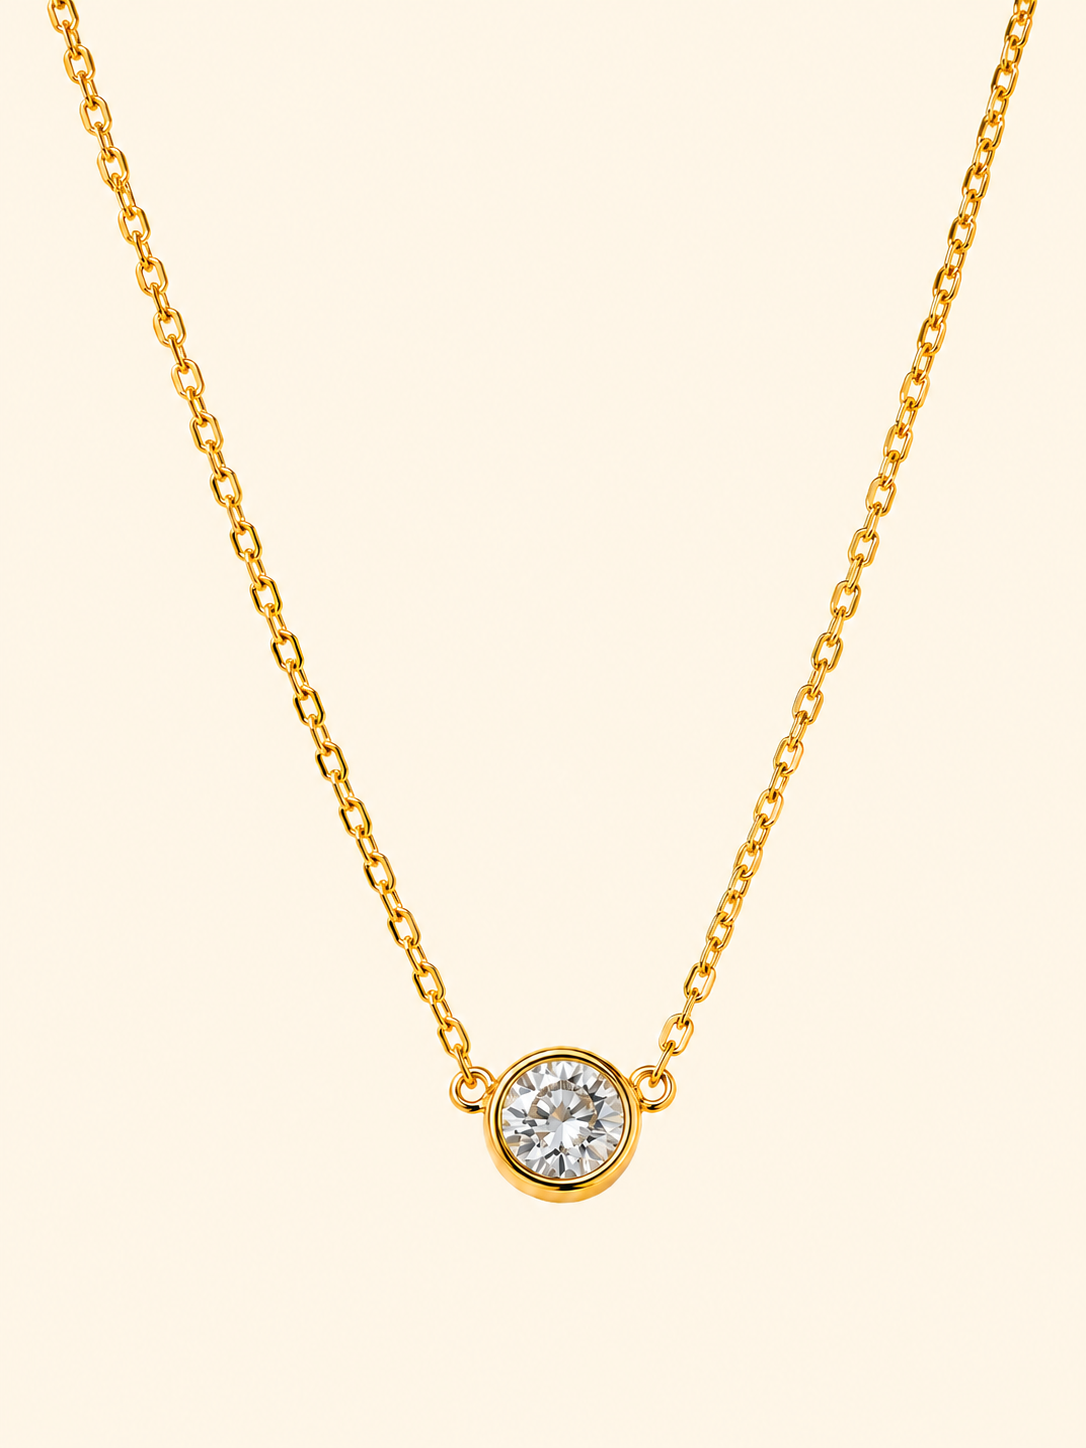
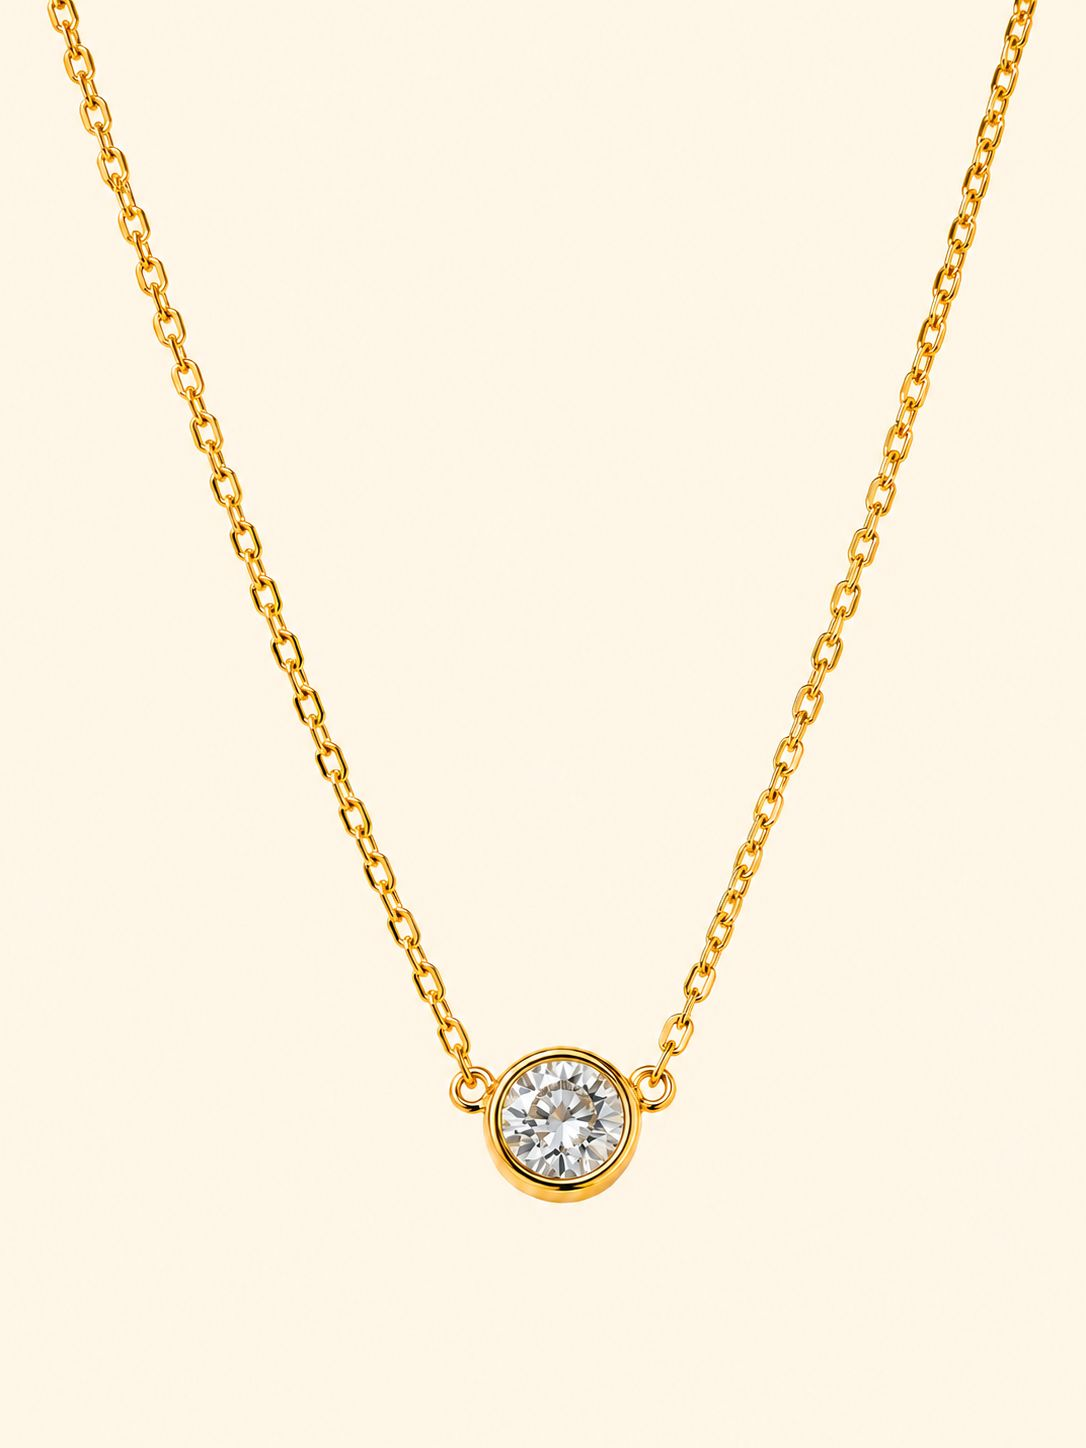
product details page fix

diff --git a/src/pages/ProductDetailsPage.jsx b/src/pages/ProductDetailsPage.jsx
@@ -284,11 +284,11 @@ export default function ProductDetailsPage({
             else if (idx === 2) visualIndex = 1;
 
             return (
-              <div key={idx} className="w-[20%] h-full flex items-center justify-center relative p-6 flex-shrink-0">
+              <div key={idx} className="w-[20%] h-full flex items-center justify-center relative flex-shrink-0">
                 <img
                   src={imgSrc}
                   alt={`${product.name} - view ${visualIndex + 1}`}
-                  className="w-full h-full object-contain pointer-events-none"
+                  className="w-full h-full object-cover pointer-events-none"
                   draggable="false"
                   style={{
                     transform: visualIndex === 1

diff --git a/src/data/productData.js b/src/data/productData.js
@@ -30,7 +30,7 @@ export const productData = {
   core: {
     title: "Core Collection",
     necklaces: [
-      { id: "c-n1", name: "Glow", tagline: "The everyday shine", price: "Rs 699/-", likes: "20k", image: "/12.png", images: ["/12.png", "/2.png", "/7.png"] },
+      { id: "c-n1", name: "Glow", tagline: "The everyday shine", price: "Rs 699/-", likes: "20k", image: "/12.png", images: ["/glow1.png", "/glow2.png", "/glow3.png"] },
       { id: "c-n2", name: "Classic Knot Chain", tagline: "The everyday shine", price: "Rs 899/-", likes: "15k", image: "/2.png", images: ["/gold_knot_necklace.png", "/gold_knot_necklace_alt1.png", "/gold_knot_necklace_alt2.png"] },
       { id: "c-n3", name: "Minimalist Pearl Bar", tagline: "The everyday shine", price: "Rs 1,299/-", likes: "12k", image: "/7.png", images: ["/gold_knot_necklace.png", "/gold_knot_necklace_alt1.png", "/gold_knot_necklace_alt2.png"] }
     ],